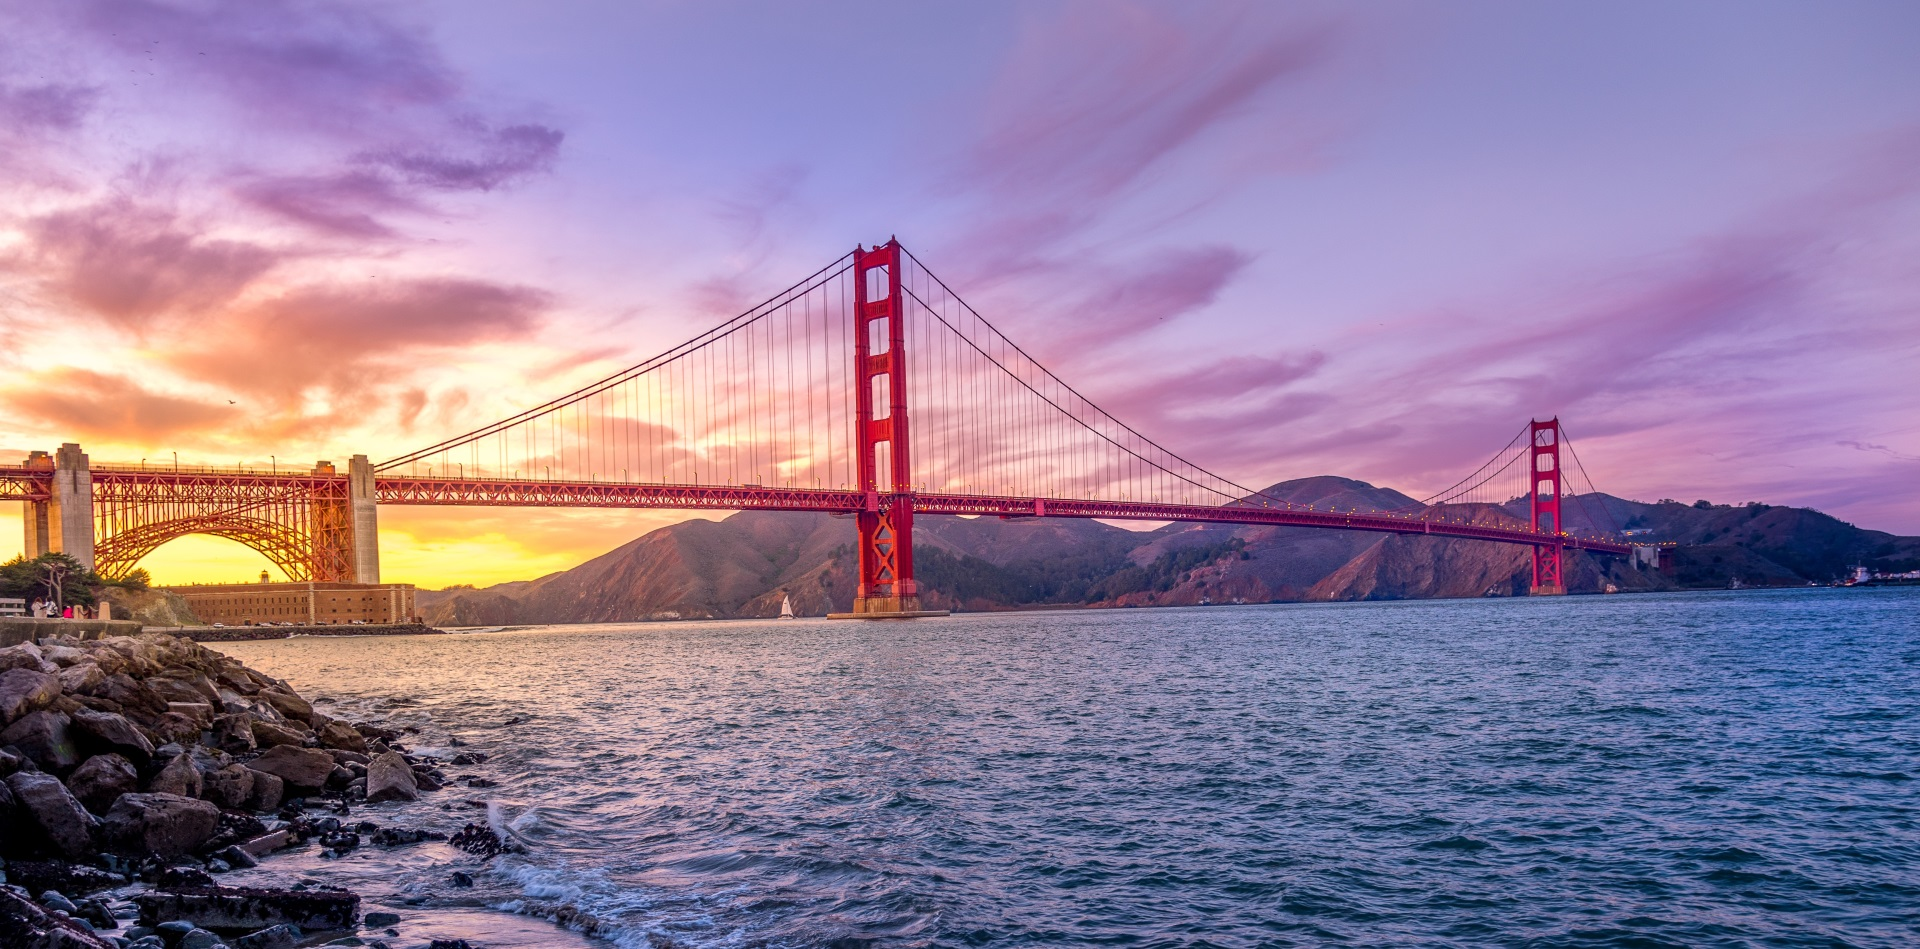
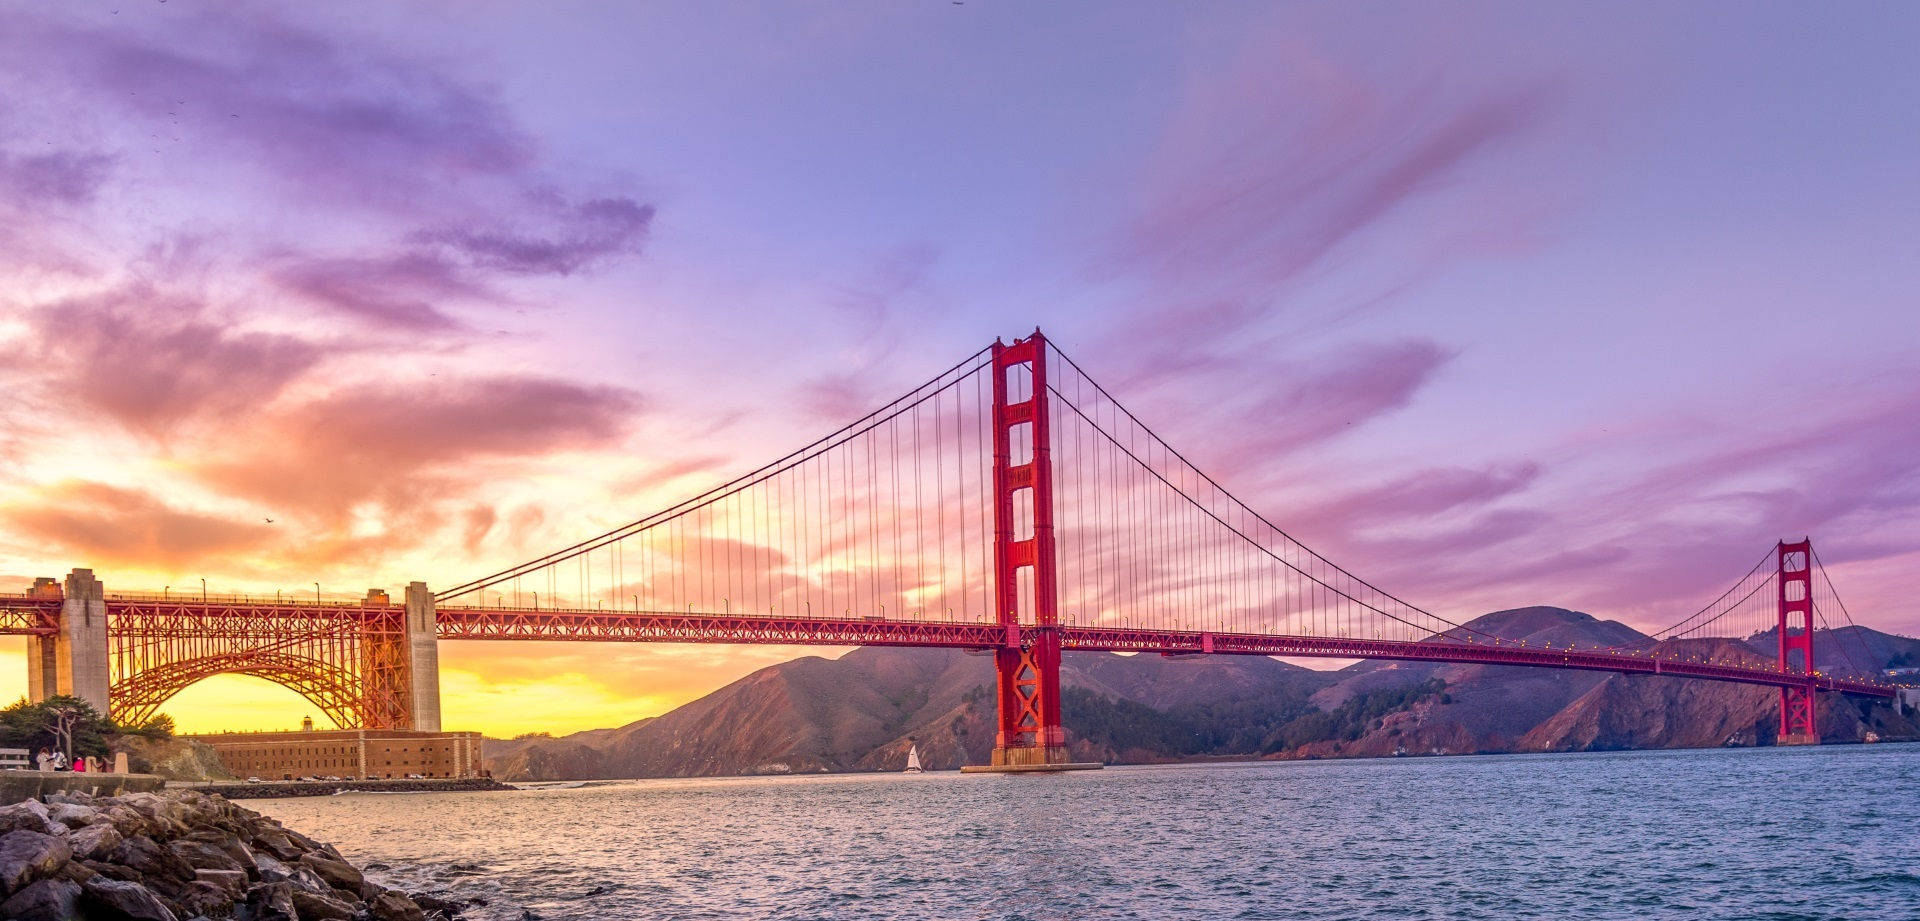
edited GG bridge pic. also moved the header in-line, and changed the font to match the H1.

diff --git a/style.css b/style.css
@@ -20,7 +20,6 @@ body {
 }
 
 .subdiv {
-  padding: 0px 50px;
   position:relative;
   top: 50%;
   transform: translateY(-50%);
@@ -35,6 +34,7 @@ body {
 .container h2 {
   text-align: center;
   font-family: 'Pacifico', cursive;
+  font-size: 34px;
 }
 
 body {
@@ -50,6 +50,10 @@ body {
   height: 50px;
   width: 100%;
   z-index: 9
+}
+
+.header .container {
+  display: block;
 }
 
 .header ul {
@@ -76,20 +80,24 @@ body {
 }
 
 .header ul li:nth-of-type(1) a {
+  text-decoration: none;
+  color: white;
+  font-family: 'Damion', cursive;
+}
+
+.header ul li:nth-of-type(2) a {
   background-color: rgb(248,245,242);
   color: black;
 }
 
-.header ul li:nth-of-type(2) a {
+.header ul li:nth-of-type(3) a {
   background-color: rgb(237, 184, 61);
 }
 
-.header ul li:nth-of-type(3) a {
+.header ul li:nth-of-type(4) a {
   background-color: rgb(0, 11, 41);
 }
 
-.header .logo {
-}
 
 /*Fake Header*/
 
@@ -106,10 +114,9 @@ body {
 }
 
 .intro .container {
-}
-
-.intro h2 {
-  text-align: center;
+  position:relative;
+  top: 35%;
+  transform: translateY(-65%);
 }
 
 /*Portfolio Section*/

diff --git a/index.html b/index.html
@@ -10,10 +10,10 @@
 <!-- Header -->
 <div class="header">
   <div class="container">
-    <div class="logo">
-      <p>DrewBStewdio</p>
-    </div>
     <ul>
+      <li>
+        <a href="index.html">DrewBStewdio</a>
+      </li>
       <li>
         <a href="#aboutme">About Me</a>
       </li>
@@ -41,6 +41,8 @@
         <h1>DrewBStewdio</h1>
         <br>
         <p>DrewBStewdio is the fake name I gave my fake web design studio, because honestly, I don't know shit about shit about web design. Currently, this site is designed with HTML/CSS. I plan to implement the Bootstrap framework and make it look less like dogshit. My repository is kept on Github.</p>
+        <br />
+        <p>I live in San Francisco. Go figure.</p>
       </div>
       </div>
     </div>
